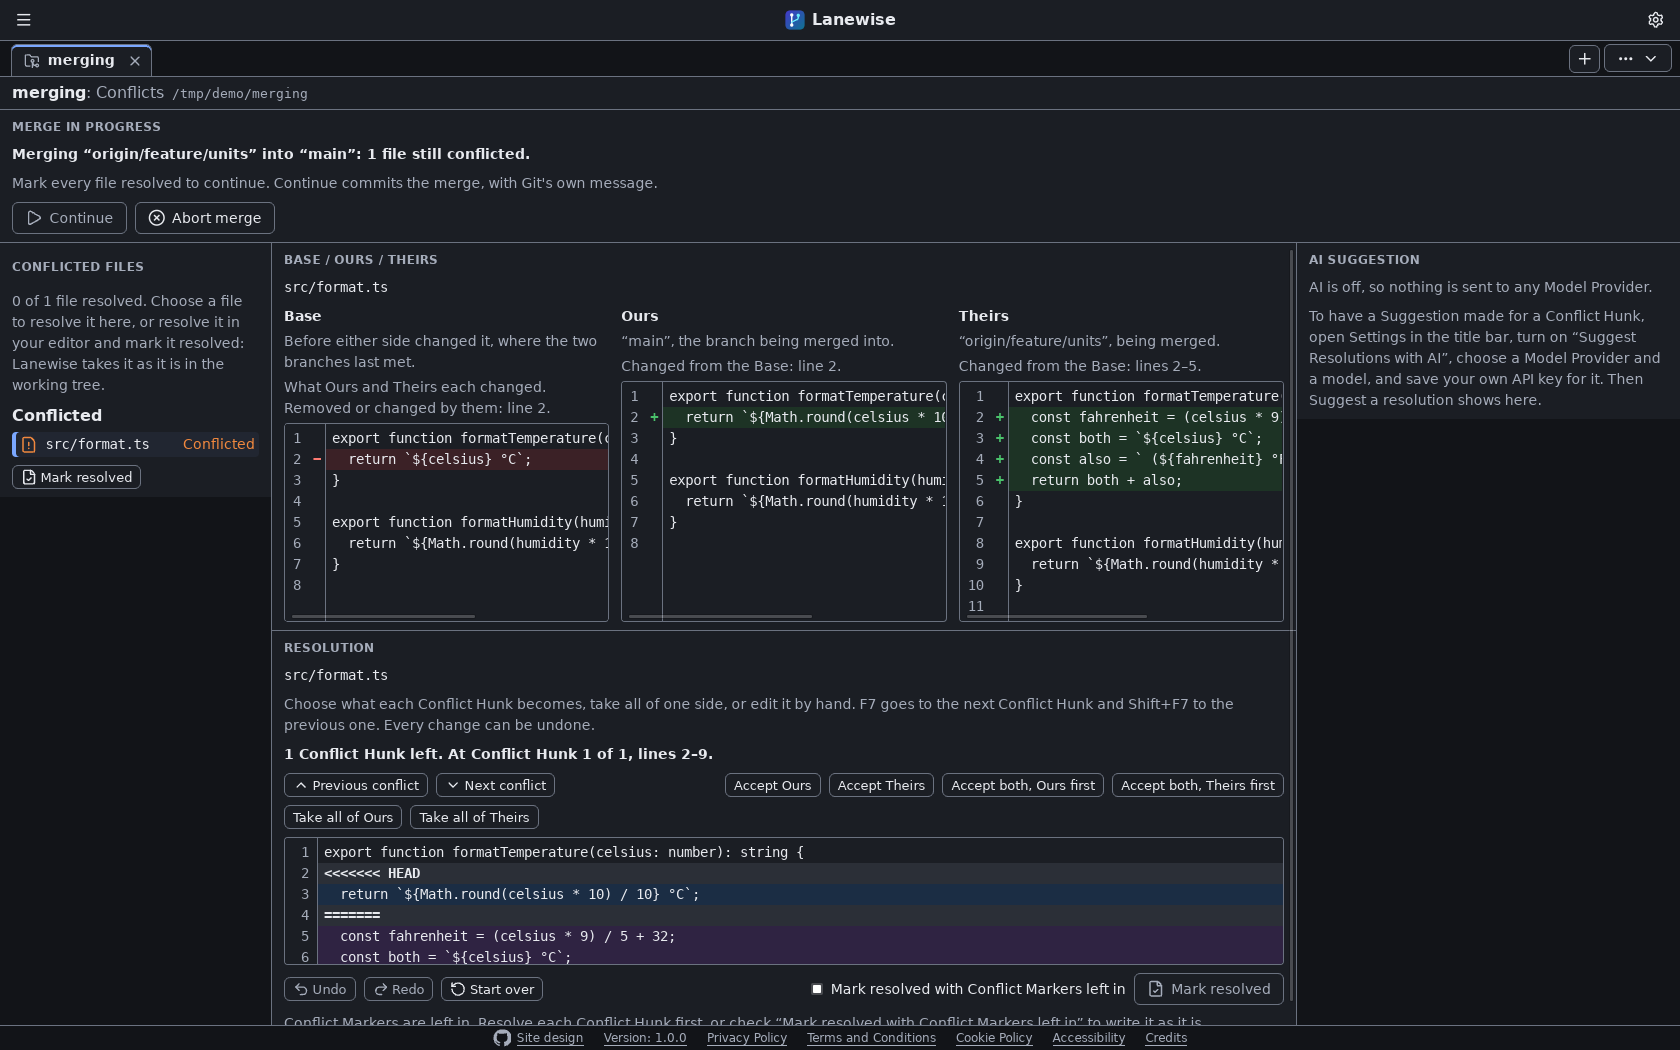
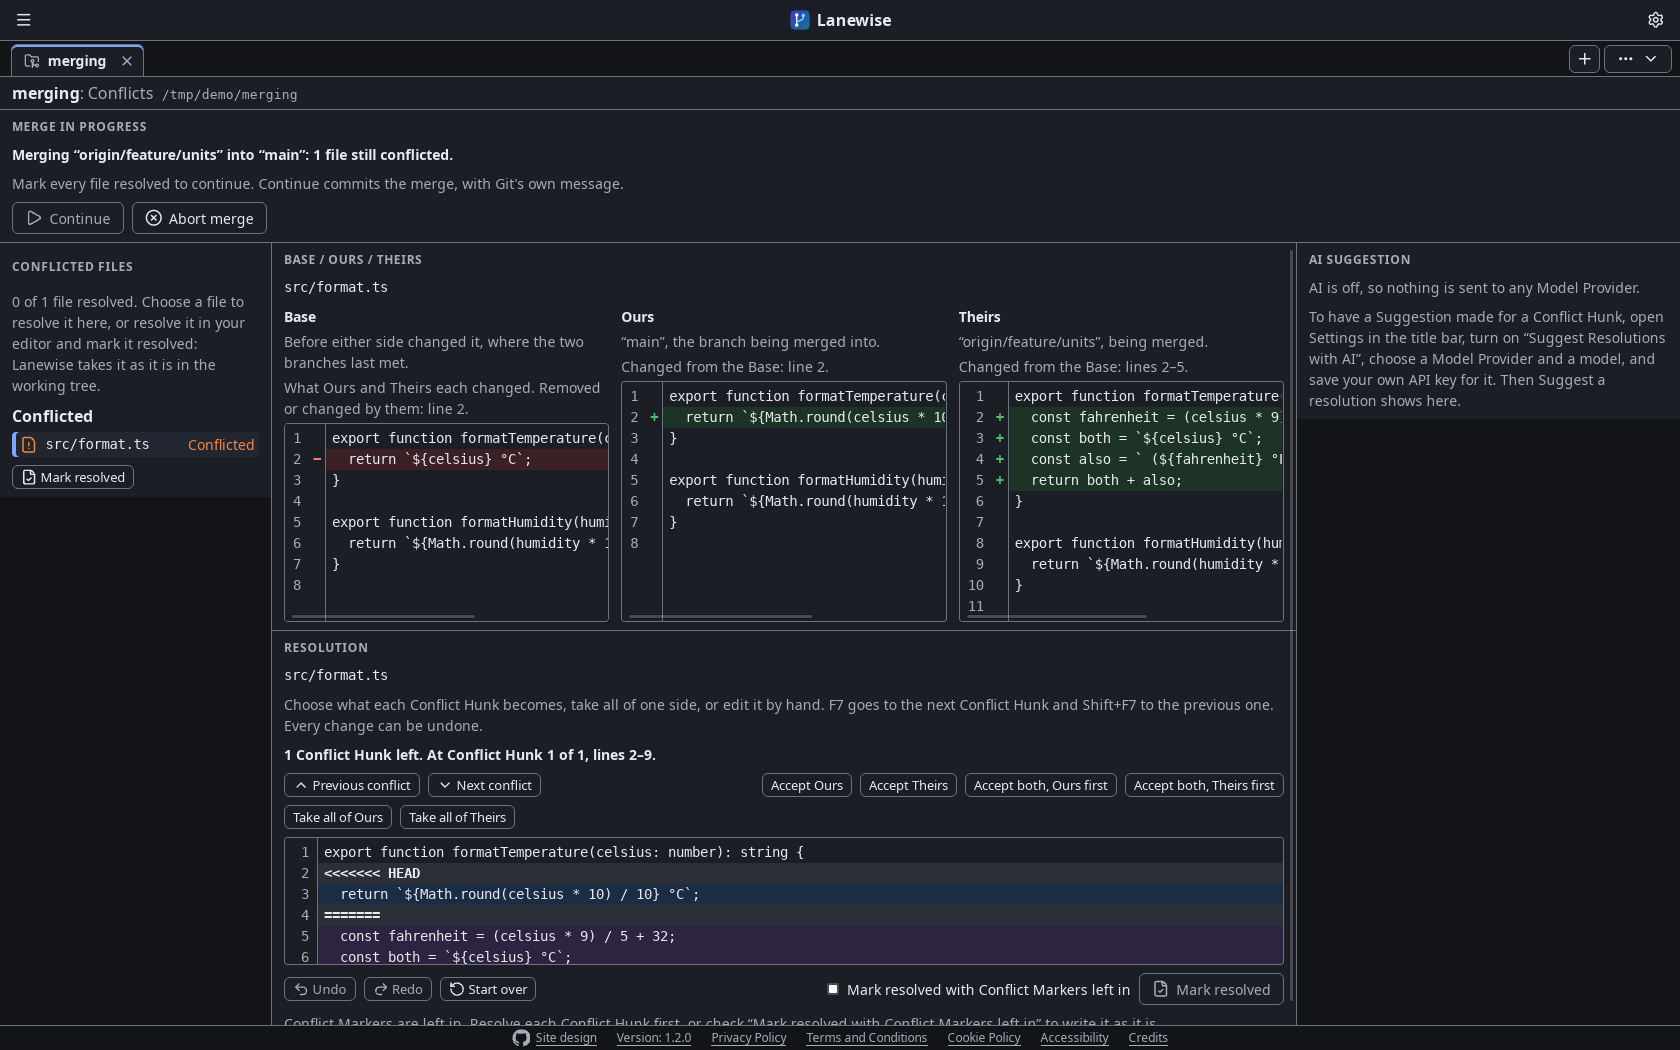
docs: take the README's and the website's screenshots again

diff --git a/website/src/screenshots.ts b/website/src/screenshots.ts
@@ -18,7 +18,7 @@ export const SCREENSHOTS: readonly Screenshot[] = [
     src: "screenshots/repository.webp",
     width: 1680,
     height: 1050,
-    alt: "Lanewise's Repository page in the light Theme, laid out as GitKraken's is. Under the Tabs, the Toolbar's row of buttons: Undo, Redo, Fetch, Pull, Push, Branch, Stash and Pop, and under it the repository, station, on main, level with origin/main. On the left, Branches & remotes lists the local branches feature/alerts, feature/humidity, feature/units and main, the current branch, the remote origin with its branches, and its two tags, closed; under it Pull requests, Stashes, with one stash, Try a larger font, and Issues. Local branches, Remotes, Tags, Pull requests, Stashes and Issues are each a section that opens and closes by its heading. In the middle, the Commit graph draws 12 commits in coloured lanes, each with its author's initials, with a column of branch and tag Labels at its left, among them the tags v0.1.0 and v0.2.0, feature/humidity merged back into main, feature/units and feature/alerts open, and the stash as a dotted square beside the commit it was made on. The commit Round temperatures to a tenth before showing them is selected, and on the right Commit details shows its author, committer, parent and the one file it changed.",
+    alt: "Lanewise's Repository page in the light Theme, laid out as GitKraken's is. Under the Tabs, the Toolbar's row of buttons: Undo, Redo, Fetch, Pull, Push, Branch, Stash and Pop, and under it the repository, station, on main, level with origin/main. On the left, Branches & remotes lists the local branches feature/alerts, feature/humidity, feature/units and main, the current branch, the remote origin with its branches, and its two tags, closed; under it Pull requests, Stashes, with one stash, Try a larger font, and Issues. Local branches, Remotes, Tags, Pull requests, Stashes and Issues are each a section that opens and closes by its heading. In the middle, above the Commit graph, its Working tree row stands out in the accent, saying Uncommitted changes, with 2 unstaged. The Commit graph draws 12 commits in coloured lanes, each with its author's initials, with a column of branch and tag Labels at its left, among them the tags v0.1.0 and v0.2.0, feature/humidity merged back into main, feature/units and feature/alerts open, and the stash as a dotted square beside the commit it was made on. The commit Round temperatures to a tenth before showing them is selected, and on the right Commit details shows its author, committer, parent and the one file it changed.",
     caption: "The Repository page: the Toolbar's buttons, branches, tags and stashes, the Commit graph, and a commit's details.",
   },
   {

diff --git a/README.md b/README.md
@@ -9,7 +9,7 @@ A free, open-source desktop Git client for Windows and macOS, with a visual comm
 - **What is being built, and why:** the [product requirements document](docs/product-requirements-document/git-client.md) and the [architectural decision records](docs/architectural-decision-record/).
 - **Releases:** [every Release](https://github.com/adrianeyre/lanewise/releases), with its notes.
 
-![Lanewise's Repository page in the light Theme, laid out as GitKraken's is. Under the Tabs, the Toolbar's row of buttons: Undo, Redo, Fetch, Pull, Push, Branch, Stash and Pop, and under it the repository, station, on main, level with origin/main. On the left, Branches & remotes lists the local branches feature/alerts, feature/humidity, feature/units and main, the current branch, the remote origin with its branches, and its two tags, closed; under it Pull requests, Stashes, with one stash, Try a larger font, and Issues. Local branches, Remotes, Tags, Pull requests, Stashes and Issues are each a section that opens and closes by its heading. In the middle, the Commit graph draws 12 commits in coloured lanes, each with its author's initials, with a column of branch and tag Labels at its left, among them the tags v0.1.0 and v0.2.0, feature/humidity merged back into main, feature/units and feature/alerts open, and the stash as a dotted square beside the commit it was made on. The commit Round temperatures to a tenth before showing them is selected, and on the right Commit details shows its author, committer, parent and the one file it changed.](website/public/screenshots/repository.webp)
+![Lanewise's Repository page in the light Theme, laid out as GitKraken's is. Under the Tabs, the Toolbar's row of buttons: Undo, Redo, Fetch, Pull, Push, Branch, Stash and Pop, and under it the repository, station, on main, level with origin/main. On the left, Branches & remotes lists the local branches feature/alerts, feature/humidity, feature/units and main, the current branch, the remote origin with its branches, and its two tags, closed; under it Pull requests, Stashes, with one stash, Try a larger font, and Issues. Local branches, Remotes, Tags, Pull requests, Stashes and Issues are each a section that opens and closes by its heading. In the middle, above the Commit graph, its Working tree row stands out in the accent, saying Uncommitted changes, with 2 unstaged. The Commit graph draws 12 commits in coloured lanes, each with its author's initials, with a column of branch and tag Labels at its left, among them the tags v0.1.0 and v0.2.0, feature/humidity merged back into main, feature/units and feature/alerts open, and the stash as a dotted square beside the commit it was made on. The commit Round temperatures to a tenth before showing them is selected, and on the right Commit details shows its author, committer, parent and the one file it changed.](website/public/screenshots/repository.webp)
 
 ![Lanewise's Repository page in the light Theme with a file's diff in the Commit graph's place, under the Toolbar's row of buttons: src/format.ts as the commit Show the temperature in Fahrenheit too changed it, split side by side, the file as it was on the left, with its removed line in red and marked with a minus, and as it is on the right, with its four added lines in green and marked with a plus, each numbered as it is in its own file. On the right, Commit details shows the commit, by Margaret Hamilton, and the file.](website/public/screenshots/diff.webp)
 
